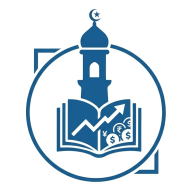
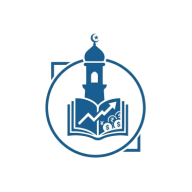
Layar pembuka SANAD Wali: latar biru dengan lencana putih berlambang SANAD (ikon any kini lingkaran putih berlatar transparan), lalu layar pembuka dalam aplikasi berisi SANAD Wali, kepanjangan Sistem Administrasi, Neraca, dan Akademik Digital, dan nama pesantren — hanya saat dibuka dari layar utama 

Changed region(s): [[0.125, 0.0312, 0.875, 0.9688]]

diff --git a/resources/views/layouts/portal.blade.php b/resources/views/layouts/portal.blade.php
@@ -40,7 +40,7 @@
          Manifest sendiri → terpasang sebagai aplikasi "SANAD Wali". --}}
     {{-- Portal Wali = aplikasi "SANAD Wali" (10 Nov 2026): ikon & nama sendiri, terpisah dari ERP staf. --}}
     <x-kepala-pwa manifest="/manifest-wali.json" judul="SANAD Wali" ikon-apple="/ikon/wali-apple-touch-icon.png?v=1" />
-    <link rel="icon" type="image/png" href="/ikon/wali-any-192.png?v=1">
+    <link rel="icon" type="image/png" href="/ikon/wali-any-192.png?v=2">
 
     {{-- Mode gelap per perangkat (pilihan di Akun; kosong = ikut setelan HP). Dipasang
          SEBELUM halaman tampil supaya tidak berkedip putih lalu gelap. --}}
@@ -134,6 +134,30 @@
     @vite(['resources/css/app.css', 'resources/js/app.js'])
 </head>
 <body class="min-h-full bg-slate-100 text-slate-800 antialiased">
+    {{-- LAYAR PEMBUKA SANAD Wali (10 Nov 2026). Layar pembuka bawaan Android hanya memuat warna, ikon & nama —
+         keterangan kepanjangan SANAD ditampilkan di sini, tepat sesudahnya, dengan latar biru yang sama.
+         Hanya saat dibuka sebagai APLIKASI dari layar utama HP (standalone), sekali per pembukaan; di peramban biasa
+         langsung dibuang oleh skrip di bawahnya SEBELUM tergambar. iPhone (tanpa layar pembuka bawaan) ikut terbantu. --}}
+    <div id="pembuka-sanad" aria-hidden="true"
+         style="position:fixed;inset:0;z-index:100;display:flex;flex-direction:column;align-items:center;justify-content:center;gap:10px;background:#164a9e;color:#fff;text-align:center;padding:24px;transition:opacity .4s ease">
+        <img src="/ikon/wali-any-512.png?v=2" alt="" style="width:112px;height:112px">
+        <div style="font-size:24px;font-weight:700;margin-top:6px">SANAD Wali</div>
+        <div style="font-size:13px;opacity:.85;max-width:280px;line-height:1.4;text-wrap:balance">Sistem Administrasi, Neraca, dan Akademik Digital</div>
+        <div style="position:absolute;bottom:calc(28px + env(safe-area-inset-bottom));font-size:12px;opacity:.7">AL Wafi Islamic Boarding School</div>
+    </div>
+    <script>
+        (function () {
+            var el = document.getElementById('pembuka-sanad');
+            var aplikasi = window.matchMedia('(display-mode: standalone)').matches || window.navigator.standalone === true;
+            var sudah = false;
+            try { sudah = sessionStorage.getItem('pembuka-sanad') === '1'; sessionStorage.setItem('pembuka-sanad', '1'); } catch (e) {}
+            if (! aplikasi || sudah) { el.remove(); return; }
+            var mulai = Date.now();
+            var tutup = function () { if (! el.isConnected) return; el.style.opacity = '0'; setTimeout(function () { el.remove(); }, 450); };
+            window.addEventListener('load', function () { setTimeout(tutup, Math.max(0, 1200 - (Date.now() - mulai))); });
+            setTimeout(tutup, 4000);   // pengaman: halaman yang lambat dimuat tak tertahan di layar pembuka
+        })();
+    </script>
     <header class="sticky top-0 z-30 border-b border-slate-200 bg-white/95 backdrop-blur" style="padding-top: env(safe-area-inset-top)">
         <div class="mx-auto flex h-14 max-w-lg items-center gap-2 px-3">
             @if ($masuk && ! $diBeranda)

diff --git a/tests/Feature/PwaTest.php b/tests/Feature/PwaTest.php
@@ -130,7 +130,7 @@ class PwaTest extends TestCase
         $this->assertSame(['/wali/', '/wali/', '/wali/', 'standalone', 'SANAD Wali'],
             [$m['id'], $m['start_url'], $m['scope'], $m['display'], $m['name']]);
         $this->assertSame(
-            ['/ikon/wali-any-192.png?v=1 any', '/ikon/wali-any-512.png?v=1 any', '/ikon/wali-192.png?v=1 maskable', '/ikon/wali-512.png?v=1 maskable'],
+            ['/ikon/wali-any-192.png?v=2 any', '/ikon/wali-any-512.png?v=2 any', '/ikon/wali-192.png?v=1 maskable', '/ikon/wali-512.png?v=1 maskable'],
             array_map(fn ($i) => $i['src'].' '.$i['purpose'], $m['icons']));
         foreach ($m['icons'] as $i) {
             $this->assertFileExists(public_path(strtok(ltrim($i['src'], '/'), '?')));

diff --git a/app/Services/PortalWali/PushWaliService.php b/app/Services/PortalWali/PushWaliService.php
@@ -173,7 +173,7 @@ class PushWaliService
             'tautan' => route('portal.kabar', [], false),
             'tag' => 'wali:'.$n->jenis.':'.($n->ref_id ?? $n->id),
             // Notifikasi wali berikon SANAD Wali, bukan ikon ERP staf (10 Nov 2026).
-            'ikon' => '/ikon/wali-any-192.png?v=1',
+            'ikon' => '/ikon/wali-any-192.png?v=2',
         ];
     }
 }
